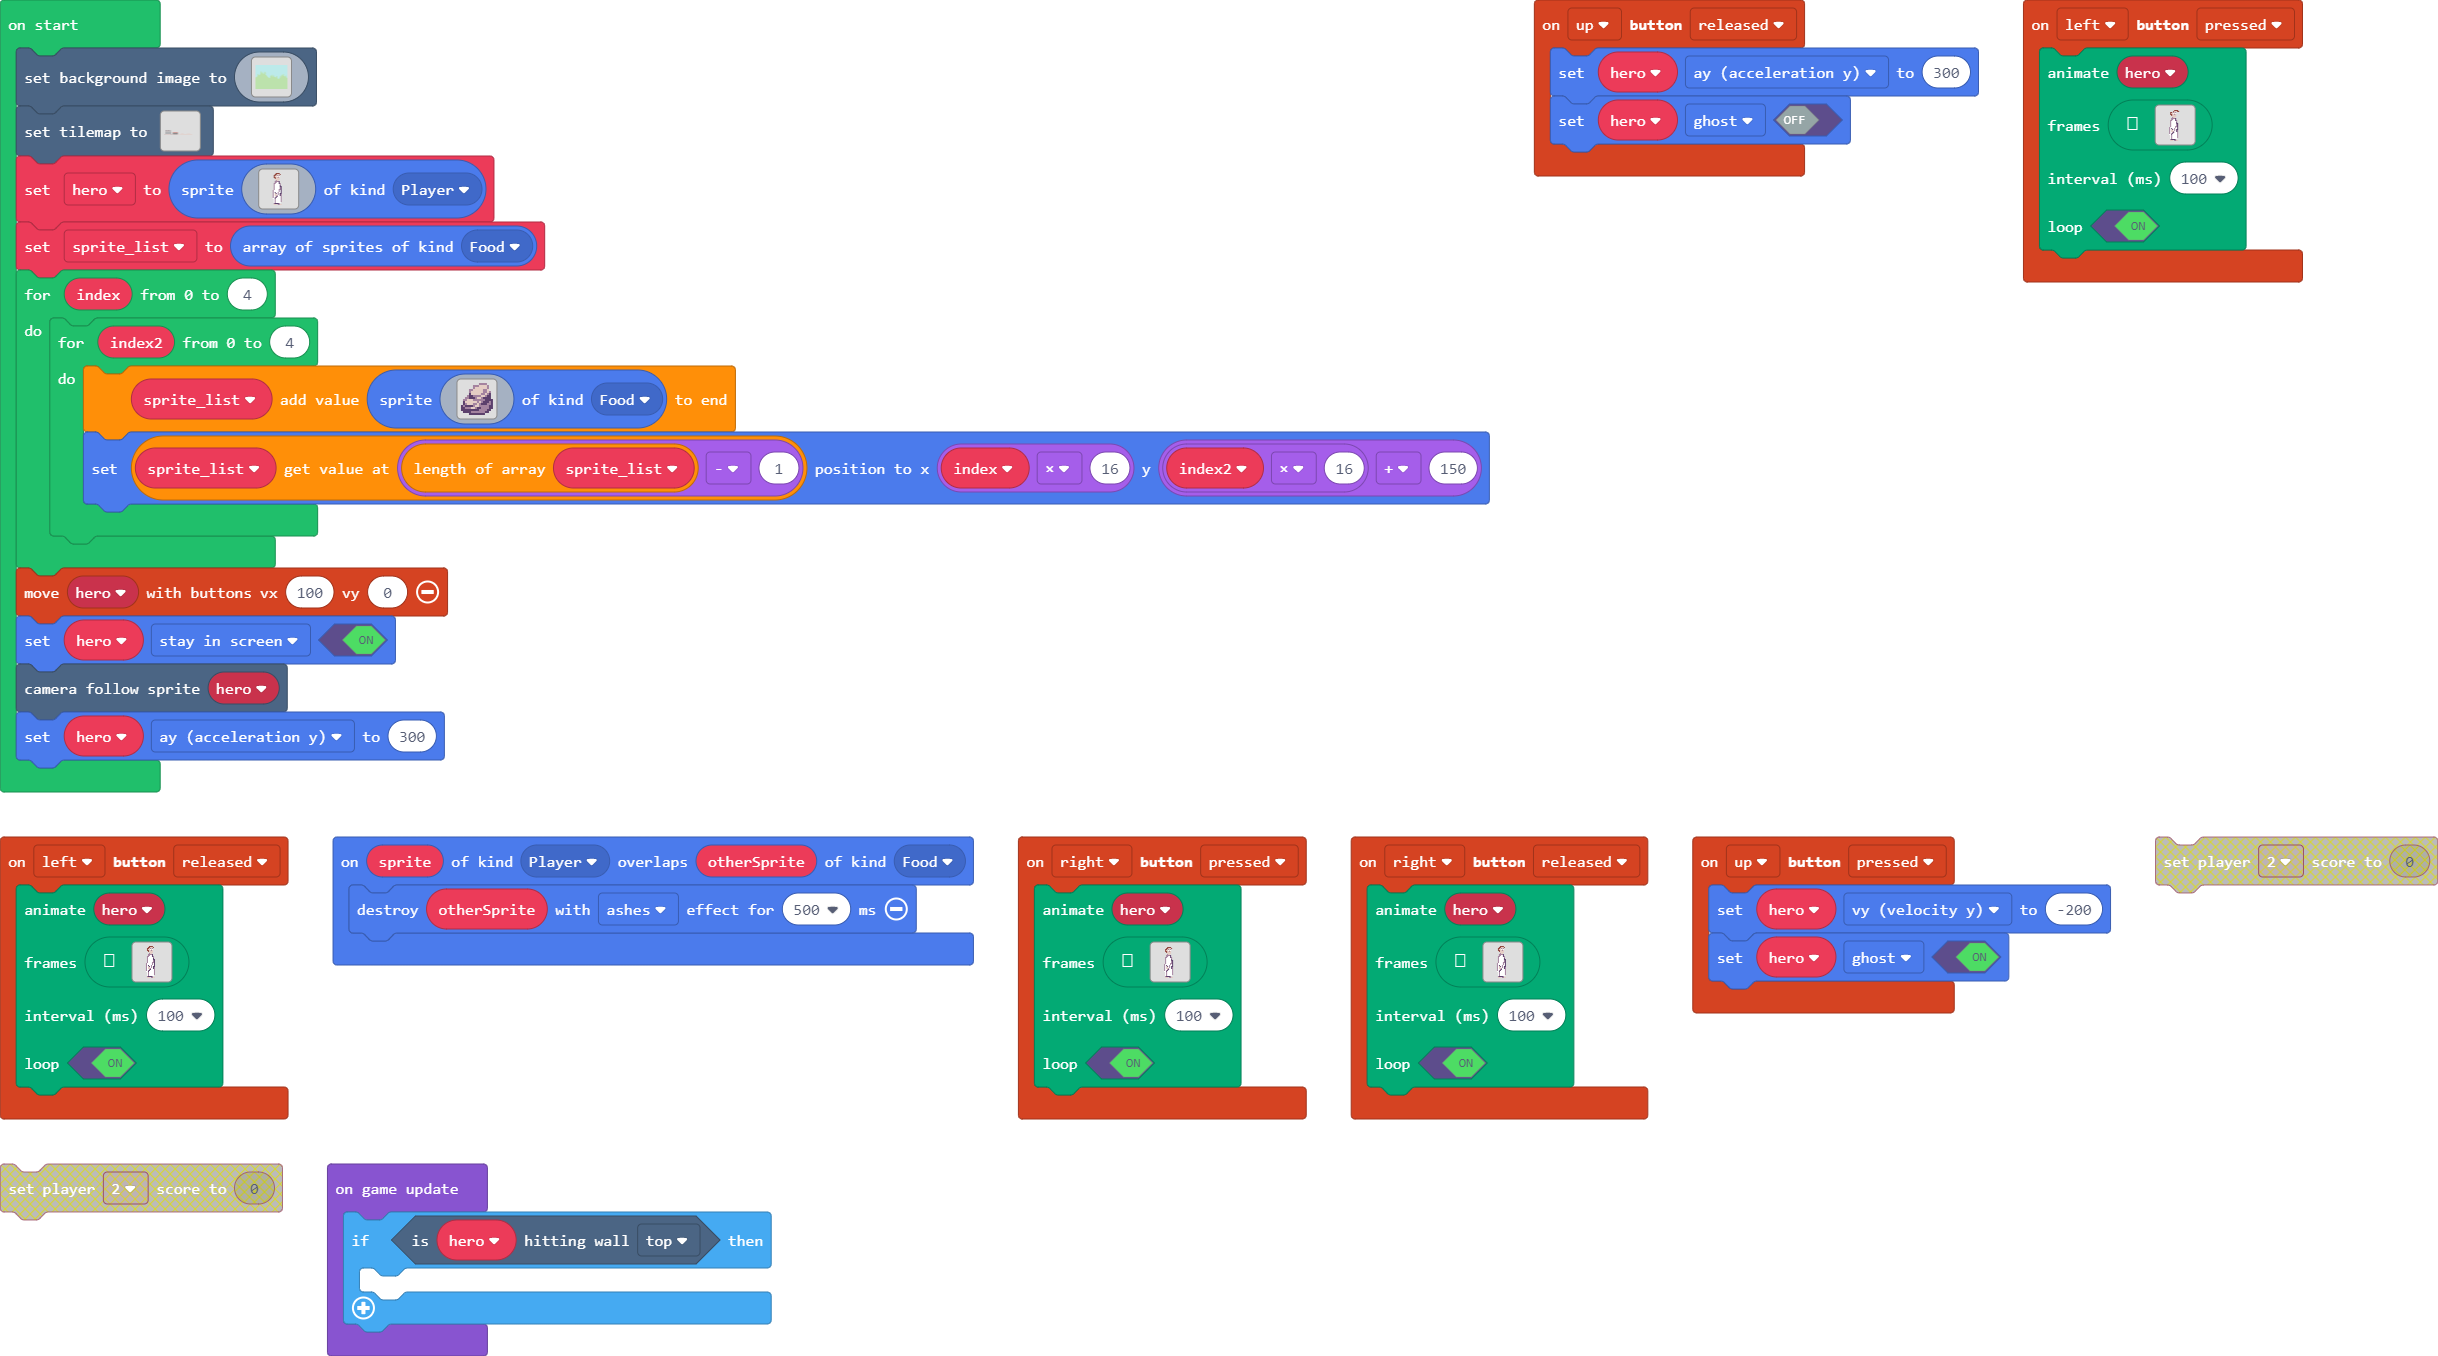
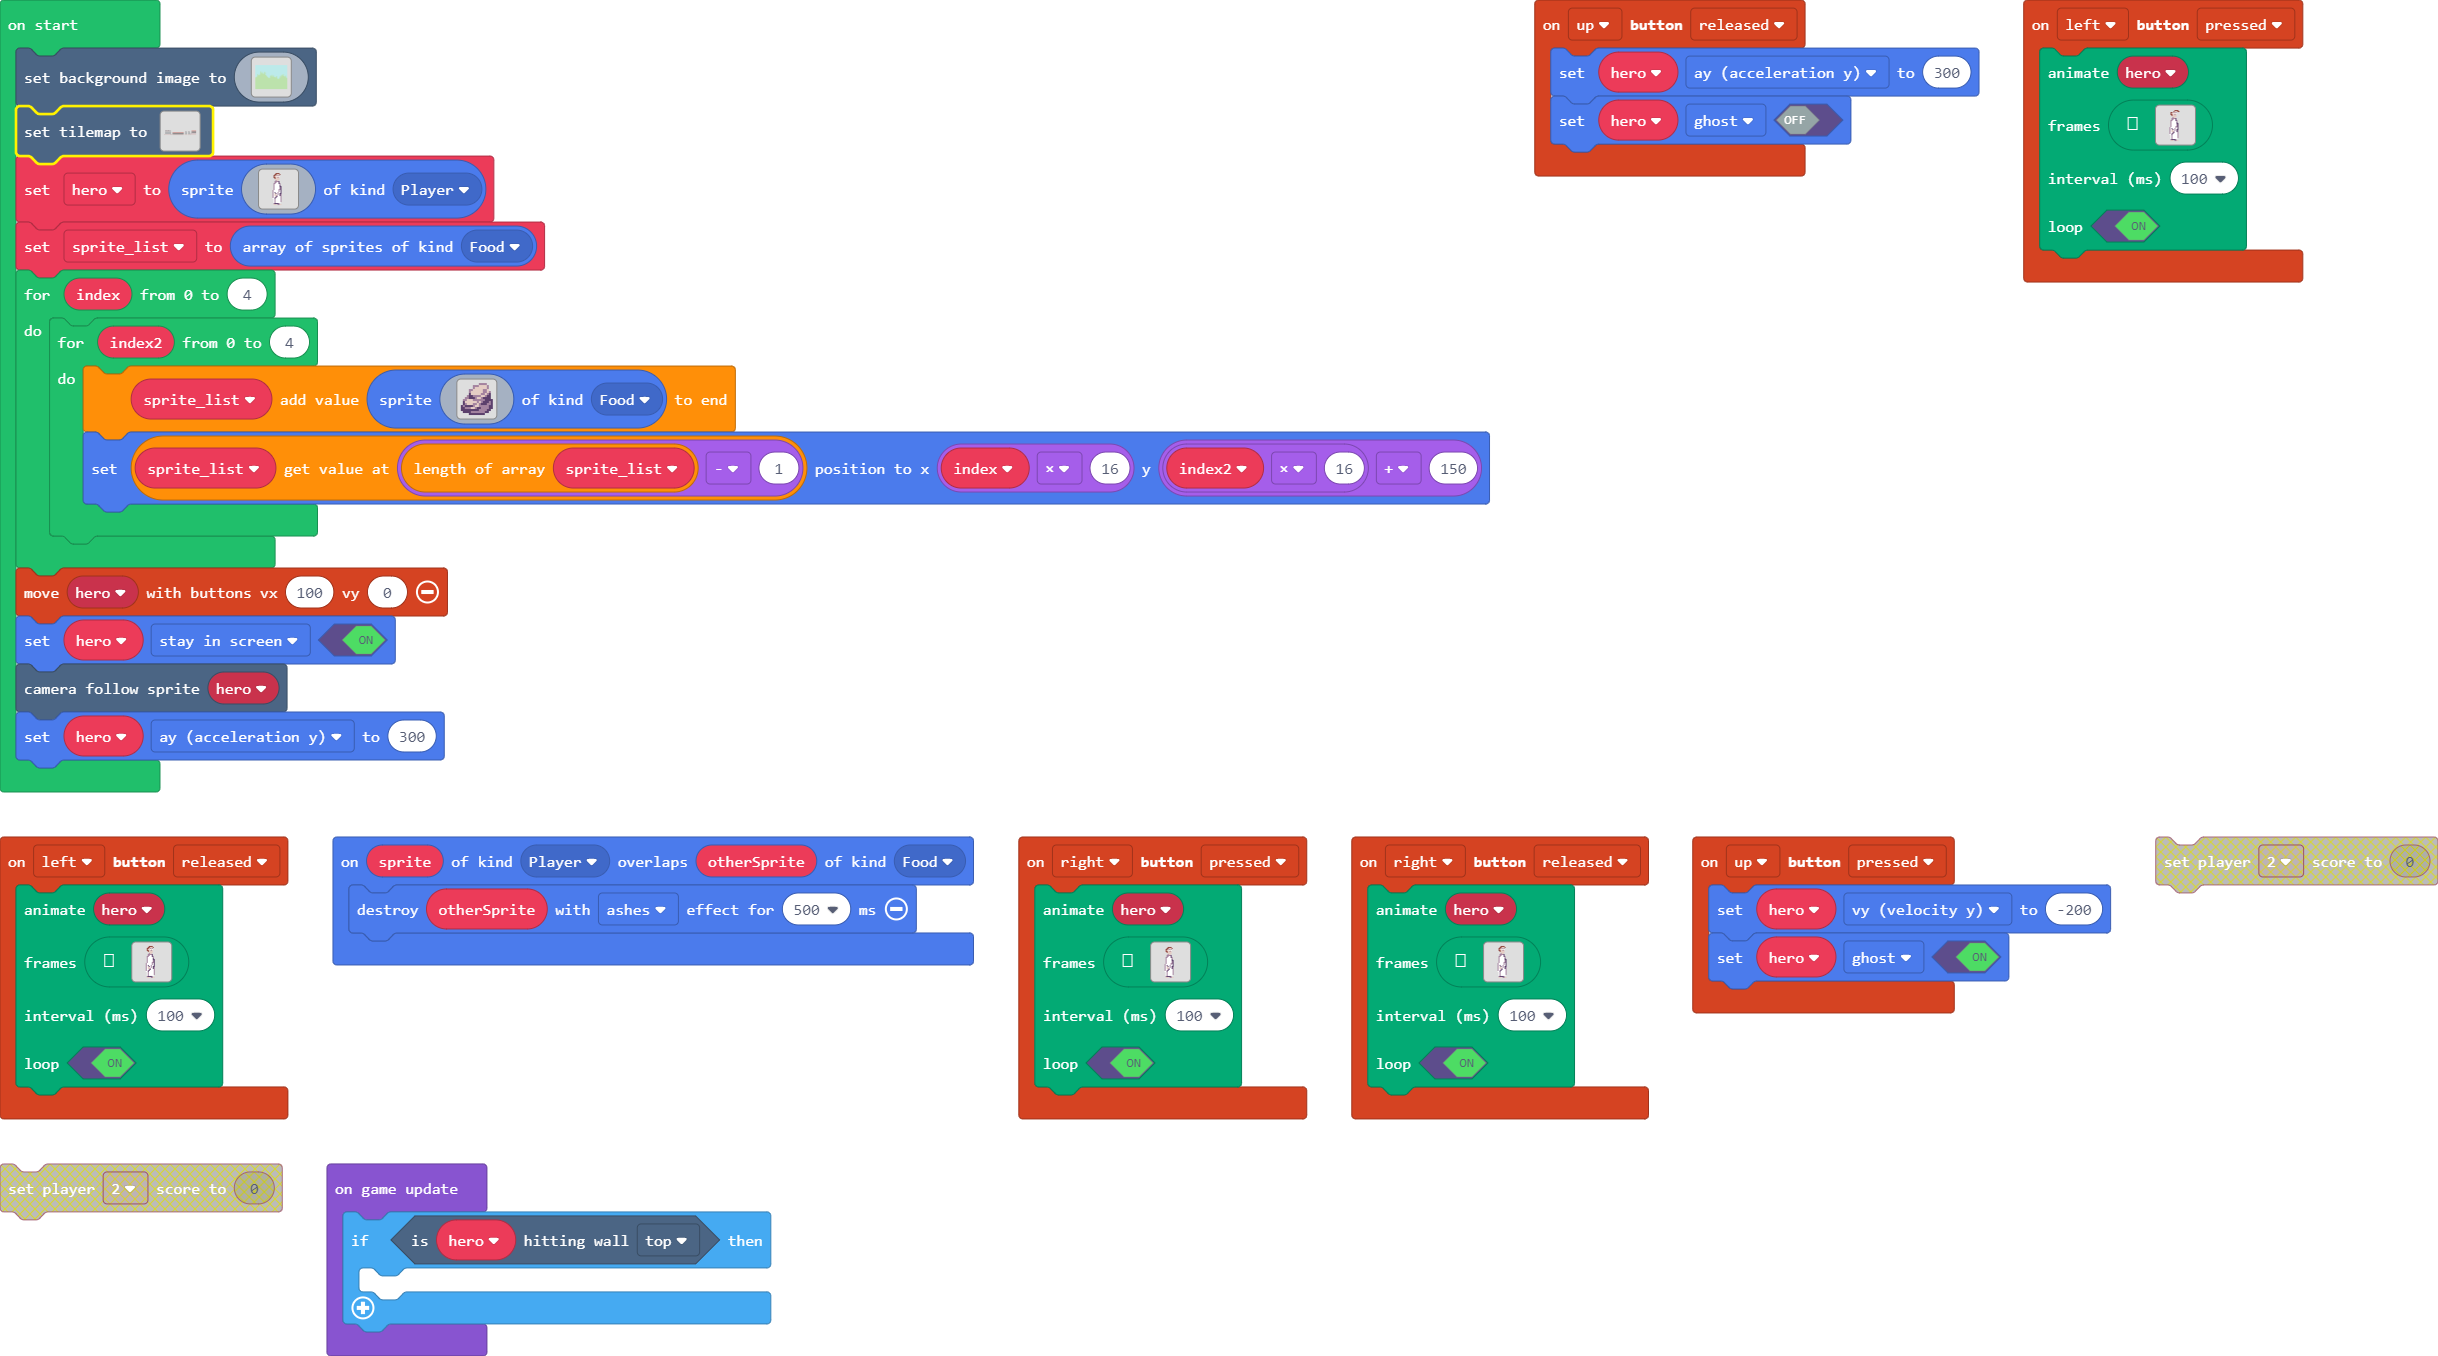
scenery

Changed region(s): [[0.0, 0.0619, 0.0935, 0.1239]]

diff --git a/main.ts b/main.ts
@@ -954,7 +954,7 @@ scene.setBackgroundImage(img`
 7 7 7 7 7 7 7 7 7 7 7 7 7 7 7 7 7 7 7 7 7 7 7 7 7 7 7 7 7 7 7 7 7 7 7 7 7 7 7 7 7 7 7 7 7 7 7 7 7 7 7 7 7 7 7 7 7 7 7 7 7 7 7 7 7 7 7 7 7 7 7 7 7 7 7 7 7 7 7 7 7 7 7 7 7 7 7 7 7 7 7 7 7 7 7 7 7 7 7 7 7 7 7 7 7 7 7 7 7 7 7 7 7 7 7 7 7 7 7 7 7 7 7 7 7 7 7 7 7 7 7 7 7 7 7 7 7 7 7 7 7 7 7 7 7 7 7 7 7 7 7 7 7 7 7 7 7 7 7 7 
 `)
 tiles.setTilemap(tiles.createTilemap(
[2 lines of base64/hex data omitted]
             img`
 . . . . . . . . . . . . . . . . . . . . . . . . . . . . . . . . . . . . . . . . . . . . . . . . . . . . . . . . . . . . . . . . 
 . . . . . . . . . . . . . . . . . . . . . . . . . . . . . . . . . . . . . . . . . . . . . . . . . . . . . . . . . . . . . . . . 
@@ -964,14 +964,14 @@ tiles.setTilemap(tiles.createTilemap(
 . . . . . . . . . . . . . . . . . . . . . . . . . . . . . . . . . . . . . . . . . . . . . . . . . . . . . . . . . . . . . . . . 
 . . . . . . . . . . . . . . . . . . . . . . . . . . . . . . . . . . . . . . . . . . . . . . . . . . . . . . . . . . . . . . . . 
 . . . . . . . . . . . . . . . . . . . . . . . . . . . . . . . . . . . . . . . . . . . . . . . . . . . . . . . . . . . . . . . . 
-. . 2 2 2 2 2 2 2 2 2 2 2 . . . . . . . . . . . . . . . . . . . . . . . . . . . . . . . . . . . . . . . . . . . . . . . . . . . 
+. . 2 2 2 2 2 2 2 2 2 2 2 . . . . . . . . . . . . . . . . . . . . . . . . . . . . . . . . . . . . . . . . . . 2 2 2 2 2 2 2 2 2 
+. . . . . . . . . . . . . . . . . . . . . . . . . . . . . . . . . . . . . . . . . . 2 2 2 . . . 2 2 2 . . . . . . . . . . . . . 
+. . . . . . . . . . . . . . . . . 2 2 2 2 2 2 2 2 2 2 2 2 2 2 2 2 2 2 2 2 2 2 . . . . . . . . . . . . . . . . . . . . . . . . . 
 . . . . . . . . . . . . . . . . . . . . . . . . . . . . . . . . . . . . . . . . . . . . . . . . . . . . . . . . . . . . . . . . 
-. . . . . . . . . . . . . . . . . 2 2 2 2 2 2 2 2 2 2 . . . . . . . . . . . . . . . . . . . . . . . . . . . . . . . . . . . . . 
-. . . . . . . . . . . . . . . . . . . . . . . . . . . . . . . . . . . . . . . . . . . . . . . . . . . . . . . . . . . . . . . . 
-. . . . . . . . . . . . . . . . . . . . . . . . . . . . . . . . . . . . . . . . . . . . . . . . . . . . . . . . . . . . . . . . 
-. . . . . . . . . . . . . . . . . . . . . . . . . . . . . . . . . . . . . . . . . . . . . . . . . . . . . . . . . . . . . . . . 
-. 2 2 2 2 2 2 2 2 2 2 2 2 2 . 2 . . . . . . . . . . . . . . . . . . . . . . . . . . . . . . . . . . . . . . . . . . . . . . . . 
-2 2 2 2 . . . . . . . . 2 2 2 2 2 2 2 2 2 2 2 2 2 2 2 2 2 2 2 2 2 2 2 2 2 2 2 2 2 2 2 2 2 2 2 2 2 2 2 2 2 2 2 2 . . . . . . . . 
+. . . . . . . . . . . . . . . . . . . . . . . . . . . . . . . . . . . . . . . . . . . . . . . . . . . . . . 2 2 2 2 2 2 2 2 2 2 
+. . . . . . . . . . . . . . . . . . . . . . . . . . . . . . . . . . . . . . . . . . . . . . . . . . . . . 2 . . . . . . . . . . 
+. 2 2 2 2 2 2 2 2 2 2 2 2 2 . 2 . . . . . . . . . . . . . . . . . . . . . . . . . . . . . . . . . . . . 2 . . . . . . . . . . . 
+2 2 2 2 . . . . . . . . 2 2 2 2 2 2 2 2 2 2 2 2 2 2 2 2 2 2 2 2 2 2 2 2 2 2 2 2 2 2 2 2 2 2 2 2 2 2 2 2 2 2 2 2 2 2 2 2 2 2 2 2 
 `,
             [myTiles.tile0,sprites.castle.tileGrass2,sprites.castle.tileDarkGrass2,sprites.castle.tilePath5,myTiles.tile1,myTiles.tile2,myTiles.tile3,myTiles.tile4,myTiles.tile5,myTiles.tile6,myTiles.tile7,myTiles.tile9,myTiles.tile10,myTiles.tile11,myTiles.tile12,myTiles.tile13,myTiles.tile14,myTiles.tile15,myTiles.tile16,myTiles.tile17,myTiles.tile19,myTiles.tile20,myTiles.tile21,myTiles.tile22,myTiles.tile23,myTiles.tile24,myTiles.tile25,myTiles.tile26,myTiles.tile27,myTiles.tile28,myTiles.tile29,myTiles.tile30,myTiles.tile31,myTiles.tile32],
             TileScale.Sixteen
